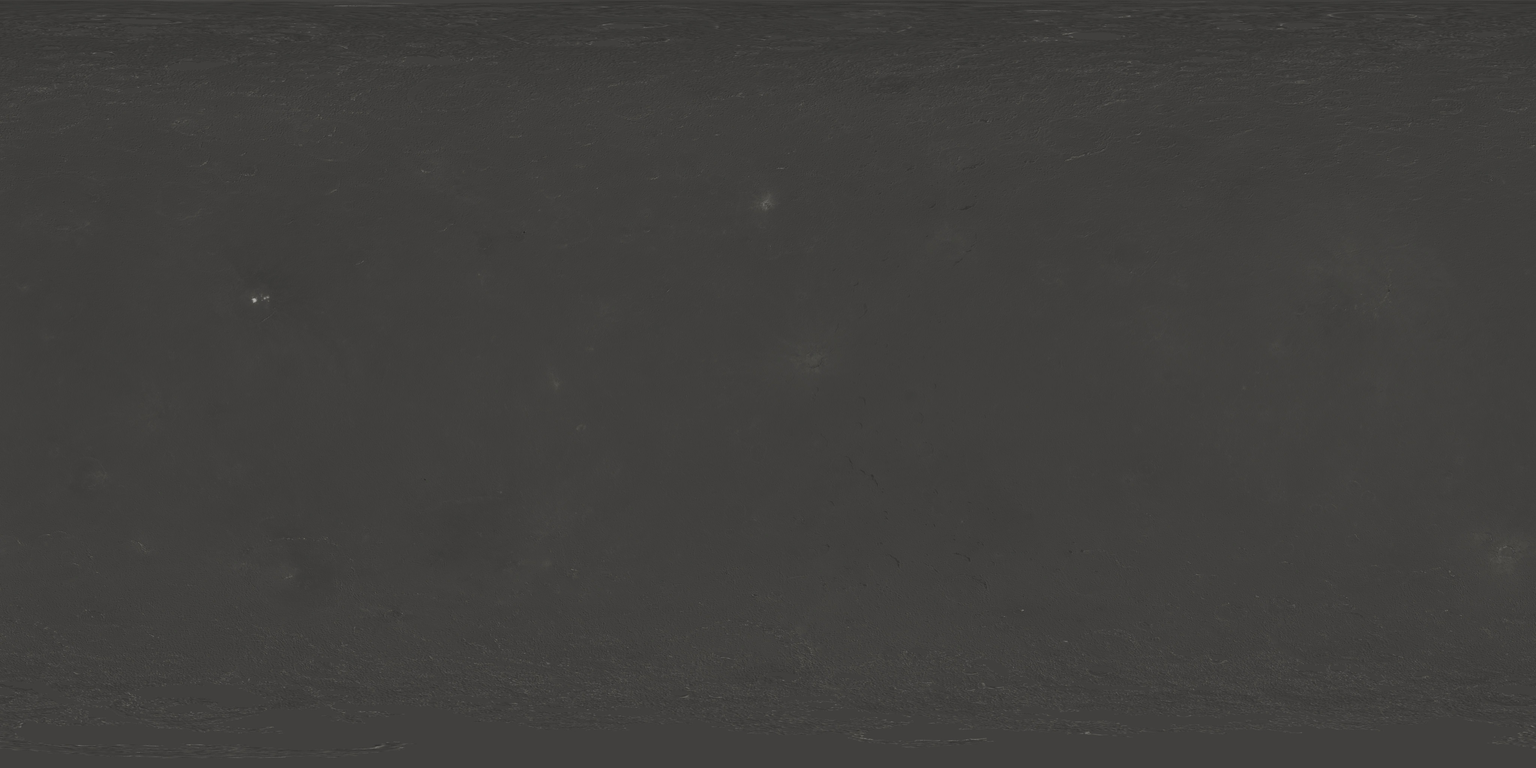
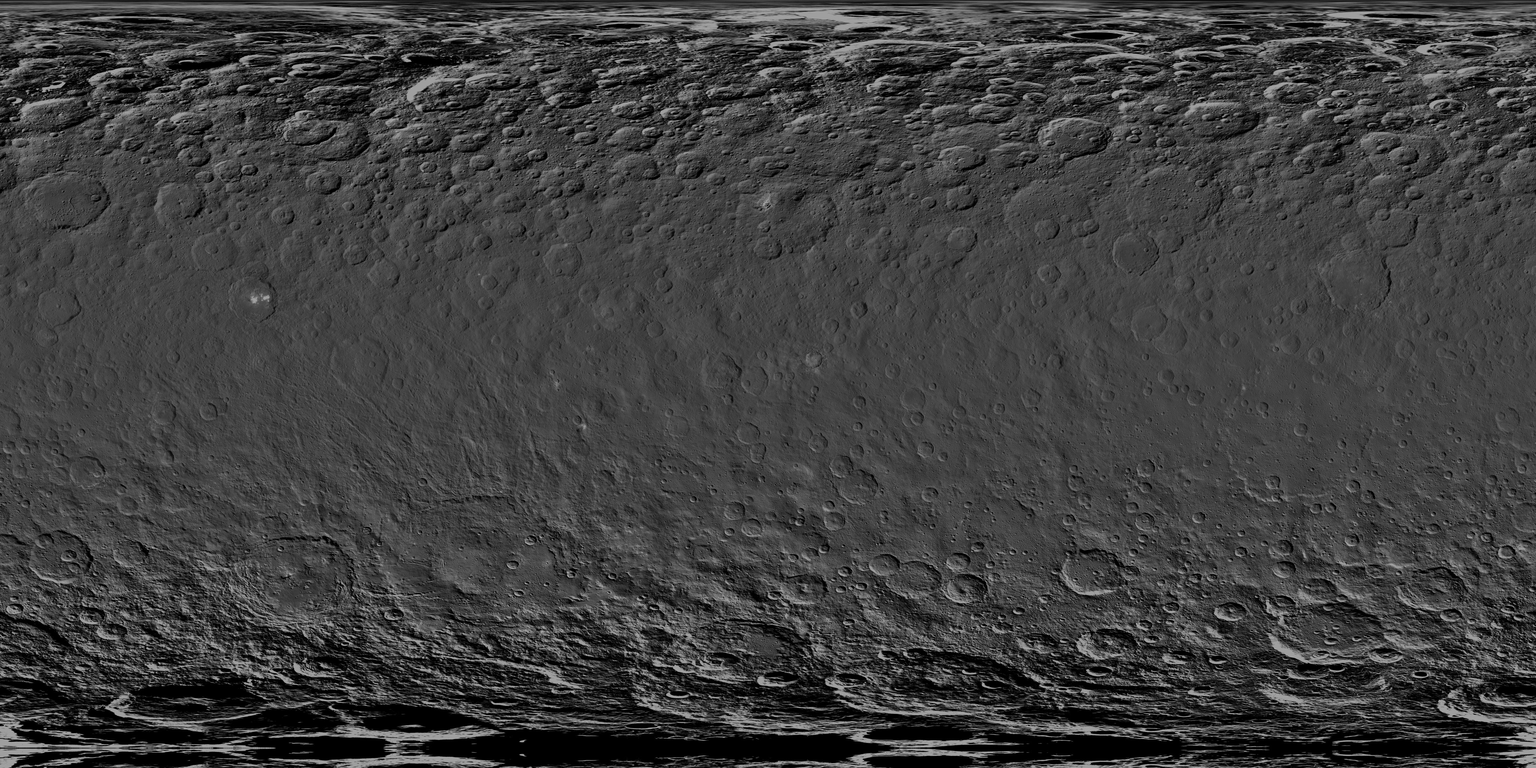
Ceres texture from the Dawn FC global mosaic (DLR), craters and relief

diff --git a/tools/ceres_texture.py b/tools/ceres_texture.py
@@ -1,0 +1,32 @@
+"""resources/Ceres.jpg from the Dawn FC global mosaic (DLR, Feb 2016, 140 m/pixel).
+
+    curl -LO https://planetarymaps.usgs.gov/mosaic/Ceres_Dawn_FC_DLR_global_59ppd_Feb2016.cub
+    python3 tools/ceres_texture.py Ceres_Dawn_FC_DLR_global_59ppd_Feb2016.cub resources/Ceres.jpg
+
+The cube is simple cylindrical, planetocentric, positive east, longitude -180..180,
+the same layout as the other maps (Occator's bright spots land at 239 E, 20 N).
+"""
+import sys
+import numpy as np
+from PIL import Image
+
+cub, out = sys.argv[1:3]
+# From the cube's label: 8-bit, one band, tiles of 267 x 128 after a 64 KiB label.
+S, L, TS, TL, START = 21093, 10546, 267, 128, 65536
+tx, ty = -(-S // TS), -(-L // TL)
+raw = np.fromfile(cub, np.uint8, count=tx * ty * TS * TL, offset=START)
+if raw.size != tx * ty * TS * TL:
+    sys.exit(cub + ': truncated')
+img = raw.reshape(ty, tx, TL, TS).transpose(0, 2, 1, 3).reshape(ty * TL, tx * TS)[:L, :S]
+a = np.asarray(Image.fromarray(img).resize((4096, 2048), Image.LANCZOS), np.float32)
+
+# Dawn never saw the south pole below -85.5 deg in daylight: mirror the band above it.
+dark = np.nonzero(a.mean(1) < 10)[0]
+dark = dark[dark > 1024]
+if dark.size:
+    r0 = dark.min()
+    a[r0:] = a[r0 - 1:2 * r0 - 2049:-1]
+
+# Same mean brightness as the albedo map this replaces, so Ceres keeps its exposure.
+a = np.clip(a * (63.6 / a.mean()), 0, 255)
+Image.fromarray(a.astype(np.uint8)).convert('RGB').save(out, quality=85, optimize=True)

diff --git a/README.md b/README.md
@@ -244,6 +244,7 @@ in `tools/`, from public files:
 | `tools/satellite_fit.py` | Horizons API | `SolarSystem/SatelliteOrbits.hpp` |
 | `tools/satellite_tables.py` | Horizons API | `resources/moons/*.bin` |
 | `tools/smallbody_tables.py` | Horizons API | `resources/bodies/*.bin` |
+| `tools/ceres_texture.py` | Dawn FC global mosaic, `planetarymaps.usgs.gov/mosaic/Ceres_Dawn_FC_DLR_global_59ppd_Feb2016.cub` (214 MB) | `resources/Ceres.jpg` |
 
 ## Tests
 
@@ -264,3 +265,5 @@ refresh the references with `tests/visual/render_refs.sh tests/visual/ref`.
 Source code under the MIT License, see [LICENSE](LICENSE). JPL/NASA ephemeris
 data are public domain. Third-party files (the `glad/` loader, textures, font
 and shape models in `resources/`) remain under the terms of their authors.
+Ceres's map is the Dawn Framing Camera global mosaic by DLR (NASA/JPL-Caltech/
+UCLA/MPS/DLR/IDA), distributed by the USGS Astrogeology Science Center.
